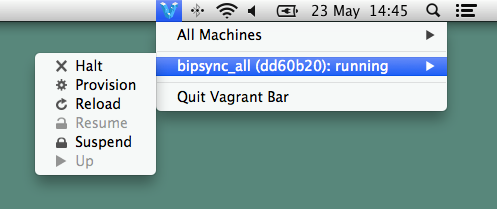
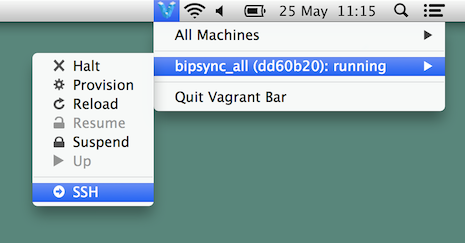
1.4 release

Changed region(s): [[0.0, 0.0, 1.0, 0.8612]]

diff --git a/Vagrant Bar/AppDelegate.m b/Vagrant Bar/AppDelegate.m
@@ -39,7 +39,9 @@
     
     [[NSUserNotificationCenter defaultUserNotificationCenter] setDelegate:self];
     
-    [self checkForUpdate];
+    if ( [self willCheckForUpdate] ) {
+        [self checkForUpdate];
+    }
     
 }
 
@@ -52,7 +54,14 @@
     NSStatusItem * item = [bar statusItemWithLength:NSVariableStatusItemLength];
     item.highlightMode = YES;
     item.menu = menu;
-    item.image = [NSImage imageNamed:@"menubar"];
+    
+    NSString * imageName = @"18";
+    NSUserDefaults * defaults = [NSUserDefaults standardUserDefaults];
+    if ( [defaults boolForKey:@"monoIcon"] ) {
+        imageName = @"18_mono";
+    }
+    
+    item.image = [NSImage imageNamed:imageName];
     item.toolTip = [NSString stringWithFormat:@"Vagrant Bar v%@",
                     [[NSBundle mainBundle] objectForInfoDictionaryKey:@"CFBundleShortVersionString"]];
     
@@ -478,8 +487,15 @@
     attributes = [NSDictionary dictionaryWithObject:permissions forKey:NSFilePosixPermissions];
     [[NSFileManager defaultManager] setAttributes:attributes ofItemAtPath:tempFile error:nil];
     
+    NSUserDefaults * defaults = [NSUserDefaults standardUserDefaults];
+    NSString * terminalAppName = [defaults stringForKey:@"terminalAppName"];
+    if ( !terminalAppName ) {
+        terminalAppName = @"Terminal";
+    }
+    
     [NSTask launchedTaskWithLaunchPath:
-     [NSString stringWithFormat:@"/usr/bin/open"] arguments:@[ @"-a", @"Terminal", tempFile ]];
+     [NSString stringWithFormat:@"/usr/bin/open"]
+                             arguments:@[ @"-a", terminalAppName, tempFile ]];
     
 }
 
@@ -508,7 +524,7 @@
                    if ( ![latestTag[ @"name" ] isEqualToString:[[NSBundle mainBundle] objectForInfoDictionaryKey:@"CFBundleShortVersionString"]] ) {
                        
                        NSUserNotification * userNotification =
-                       [self createUserNotification:@"Upgrade available, click to download"];
+                       [self createUserNotification:@"Update available, click to download"];
                        userNotification.subtitle = latestTag[ @"name" ];
                        
                        [[NSUserNotificationCenter defaultUserNotificationCenter] deliverNotification:userNotification];
@@ -536,6 +552,23 @@
         [[NSWorkspace sharedWorkspace] openURL:
          [NSURL URLWithString:@"https://github.com/BipSync/VagrantBar/releases"]];
     }
+    
+}
+
+- (BOOL) willCheckForUpdate {
+    
+    NSUserDefaults * defaults = [NSUserDefaults standardUserDefaults];
+    if ( [defaults valueForKey:@"checkForUpdates"] && [defaults boolForKey:@"checkForUpdates"] == NO ) {
+        return NO;
+    }
+    NSString * defaultsKey = @"lastCheckForUpdate";
+    NSTimeInterval lastCheckTime = [defaults doubleForKey:defaultsKey];
+    NSTimeInterval nowTime = [NSDate timeIntervalSinceReferenceDate];
+    if ( lastCheckTime && nowTime - lastCheckTime < 3600 ) {
+        return NO;
+    }
+    [defaults setValue:[NSNumber numberWithDouble:nowTime] forKey:defaultsKey];
+    return YES;
     
 }
 

diff --git a/AskPass/main.m b/AskPass/main.m
@@ -19,7 +19,7 @@ int main( int argc, const char * argv[] ) {
     NSURL * iconUrl =
     [NSURL fileURLWithPath:[NSString stringWithFormat:@"%@/%@",
                           [[[NSProcessInfo processInfo] environment] valueForKey:@"PWD"],
-                          @"Vagrant Bar.app/Contents/Resources/128.png"
+                          @"Vagrant Bar.app/Contents/Resources/64.png"
                           ]];
 	
 	NSDictionary * panel =
